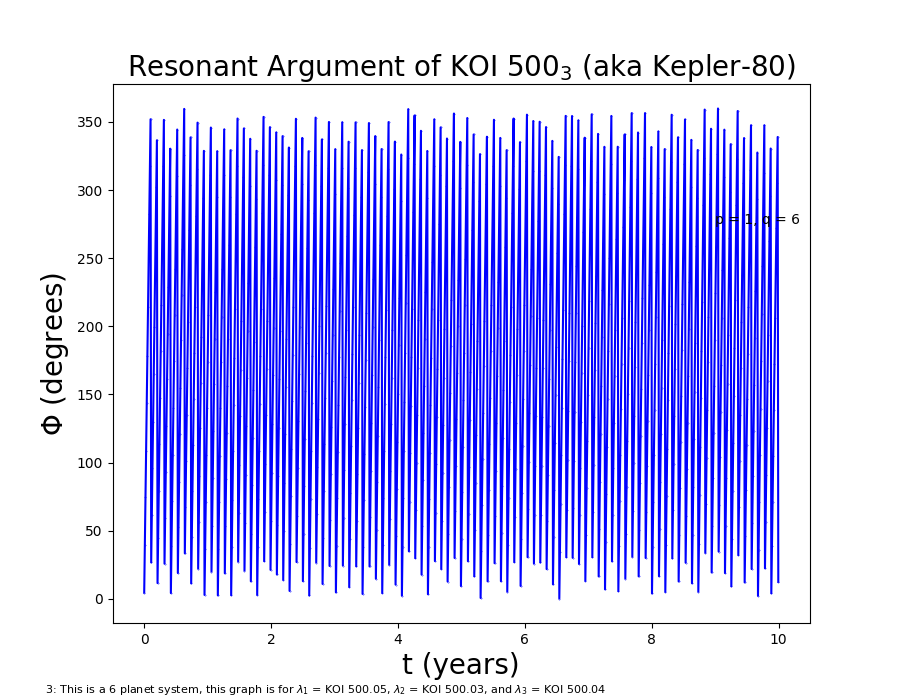
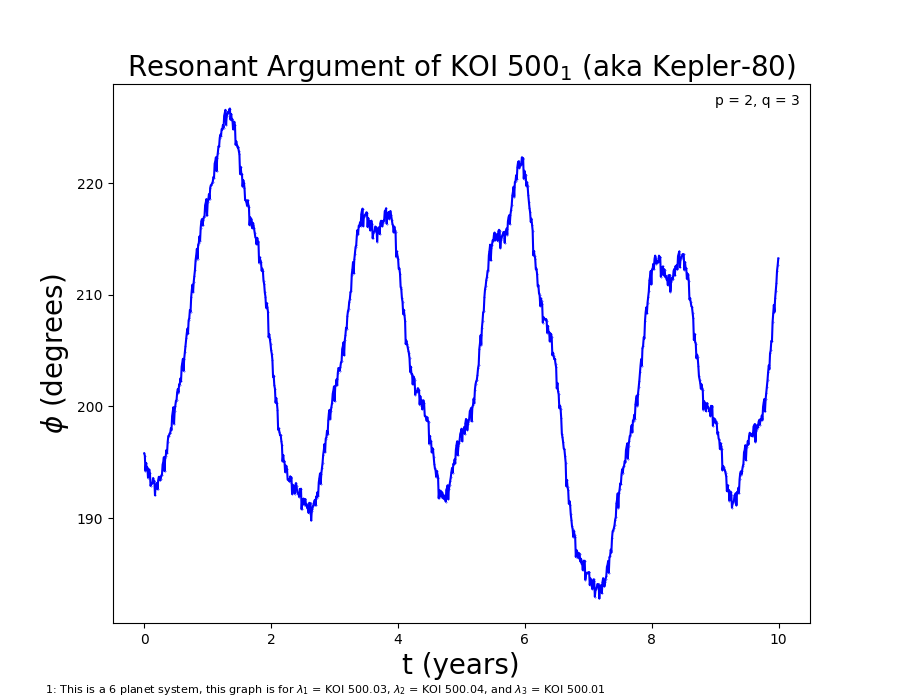
Poster almost done!

diff --git a/Rebound500.py b/Rebound500.py
@@ -15,17 +15,17 @@ print(sim.G)
 #star/COM
 sim.add(m=0.73)
 #500.05
-sim.add(m=(1.414**3.7)/332946,P=0.98678597,theta=2.4355621644187977, inc=89.1374*pi/180)
+sim.add(m=(1.414**3.7)/332946,P=0.98678597,M=2.4355621644187977, inc=(89.1374-90)*pi/180)
 #500.03
-sim.add(m=(1.573**3.7)/332946,P=3.07215234,theta=0.4740243350522775, inc=89.7348*pi/180)
+sim.add(m=(1.573**3.7)/332946,P=3.07215234,M=0.4740243350522775, inc=(89.7348-90)*pi/180)
 #500.04
-sim.add(m=(1.607**3.7)/332946, P=4.64539336,theta=2.2549978802066732, inc=89.7485*pi/180)
+sim.add(m=(1.607**3.7)/332946, P=4.64539336,M=2.2549978802066732, inc=(89.7485-90)*pi/180)
 #500.01
-sim.add(m=(2.596**3)/332946,P=7.05352865,theta=0.39262493210667415, inc=89.7896*pi/180)
+sim.add(m=(2.596**3)/332946,P=7.05352865,M=0.39262493210667415, inc=(89.7896-90)*pi/180)
 #500.02
-sim.add(m=(2.606**3)/332946,P=9.52164568,theta=1.9798779654977992,inc=89.832*pi/180)
+sim.add(m=(2.606**3)/332946,P=9.52164568,M=1.9798779654977992,inc=(89.832-90)*pi/180)
 #500.06
-sim.add(m=(1.235**3.7)/332946,P=14.64538173,theta=2.89534062457073, inc=89.8994*pi/180)
+sim.add(m=(1.235**3.7)/332946,P=14.64538173,M=2.89534062457073, inc=(89.8994-90)*pi/180)
 
 os = sim.orbits()
 print("n_i (in rad/days) = %6.3f, %6.3f, %6.3f" % (os[2].n,os[3].n,os[4].n))
@@ -37,12 +37,12 @@ Nout = 1000 # number of printed out timesteps.
 phi = zeros(Nout)
 l1,l2,l3 = zeros(Nout), zeros(Nout), zeros(Nout)
 
-p,q = 1, 6
+p,q = 2, 4
 
 times = linspace(0.,Tfinal,Nout)
 for i,time in enumerate(times):
     sim.integrate(time)
-    l1[i],l2[i],l3[i] = sim.particles[1].l,sim.particles[2].l,sim.particles[3].l
+    l1[i],l2[i],l3[i] = sim.particles[3].l,sim.particles[4].l,sim.particles[5].l
     phi[i] = p*l1[i]-(p+q)*l2[i]+q*l3[i]
 sim.move_to_com()
 
@@ -52,9 +52,20 @@ fig = plt.figure(figsize=(9,7))
 ax = plt.subplot(111)
 ax.plot(times/365.2425,phi_degrees, 'b', marker=".", markersize=.5)
 ax.set_xlabel("t (years)", fontsize=20)
-ax.set_ylabel("$\Phi$ (degrees)", fontsize=20)
-ax.set_title("Resonant Argument of KOI 500$_3$ (aka Kepler-80)",fontsize=20)
-ax.annotate("p = 1, q = 6",xy=(9,275))
-plt.figtext(0.05, 0.01, "3: This is a 6 planet system, this graph is for $\lambda_1$ = KOI 500.05, $\lambda_2$ = KOI 500.03, and $\lambda_3$ = KOI 500.04", ha="left", fontsize=8)
-plt.savefig("phichart500_1.png")
+ax.set_ylabel("$\phi$ (degrees)", fontsize=20)
+ax.set_title("Resonant Argument of KOI 500$_2$ (aka Kepler-80)",fontsize=20)
+ax.annotate("p = 2, q = 4",xy=(9,226))
+plt.figtext(0.05, 0.01, "2: This is a 6 planet system, this graph is for $\lambda_1$ = KOI 500.04, $\lambda_2$ = KOI 500.01, and $\lambda_3$ = KOI 500.02", ha="left", fontsize=8)
+plt.savefig("phichart500_2.png")
 
+op = rebound.OrbitPlot(sim,unitlabel="[AU]", color="blue", figsize=[5.5,5])
+op.ax.set_title("KOI 500 (aka Kepler-80)")
+
+labels = ["Star", "500.05", "500.03", "500.04", "500.01", "500.02",'500.06']
+for i, p in enumerate(sim.particles):
+    x, y, _ = p.xyz
+    op.ax.text(x-0.0115, y+0.006, labels[i], fontsize=8, color="black")
+
+op.fig.savefig("orbit500.png")
+
+sim.cite()

diff --git a/Rebound707.py b/Rebound707.py
@@ -46,16 +46,16 @@ for i,time in enumerate(times):
 sim.move_to_com()
 
 #radian to degree conversion
-phi_degrees = (phi*180/pi) % 360
+phi_degrees = (phi*180/pi + 180) % 360 - 180
 print(phi_degrees)
 
 fig = plt.figure(figsize=(9,7))
 ax = plt.subplot(111)
 ax.plot(times/365.2425,phi_degrees, 'b', marker=".", markersize=.5)
 ax.set_xlabel("t (years)", fontsize=20)
-ax.set_ylabel("$\Phi$ (degrees)", fontsize=20)
-ax.set_title("Resonant Argument of KOI 707$_2$ (aka Kepler-33)",fontsize=20)
-ax.annotate("p = 2, q = 4",xy=(90,365))
-plt.figtext(0.05, 0.01, "2: This is a 5 planet system, this graph is for $\lambda_1$ = KOI 707.01, $\lambda_2$ = KOI 707.03, and $\lambda_3$ = KOI 707.02", ha="left", fontsize=8)
-plt.savefig("phichart707_2_long.png")
+ax.set_ylabel("$\phi$ (degrees)", fontsize=20)
+ax.set_title("Resonant Argument of KOI 707 (aka Kepler-33)",fontsize=20)
+ax.annotate("p = 2, q = 4",xy=(90,68))
+#plt.figtext(0.05, 0.01, "2: This is a 5 planet system, this graph is for $\lambda_1$ = KOI 707.01, $\lambda_2$ = KOI 707.03, and $\lambda_3$ = KOI 707.02", ha="left", fontsize=8)
+plt.savefig("phichart707_long.png")
 
